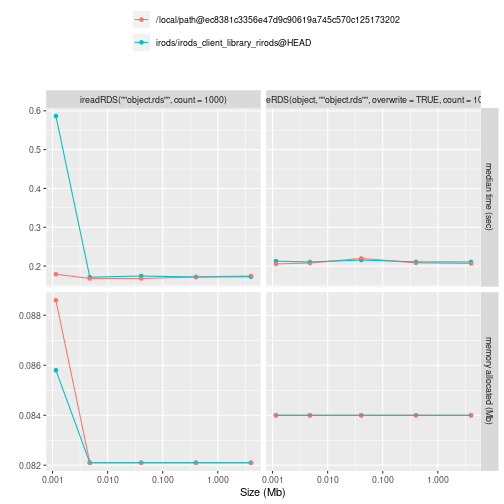
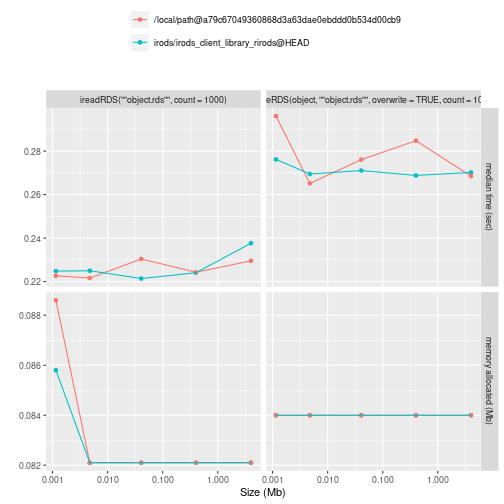
Benchmark results

diff --git a/inst/bench/README.md b/inst/bench/README.md
@@ -64,15 +64,15 @@ The results are based on the HEAD of the main branch on the iRODS organization r
    <td style="text-align:right;"> HEAD </td>
    <td style="text-align:right;"> 312 </td>
    <td style="text-align:right;"> iget(file_name, file_name, overwrite = TRUE, count = 1000) </td>
-   <td style="text-align:right;"> 171.25ms </td>
-   <td style="text-align:right;"> 1.53MB </td>
+   <td style="text-align:right;"> 213.63ms </td>
+   <td style="text-align:right;"> 2.72MB </td>
   </tr>
   <tr>
    <td style="text-align:right;"> irods/irods_client_library_rirods </td>
    <td style="text-align:right;"> HEAD </td>
    <td style="text-align:right;"> 312 </td>
    <td style="text-align:right;"> iput(file_name, file_name, overwrite = TRUE, count = 1000) </td>
-   <td style="text-align:right;"> 208.95ms </td>
+   <td style="text-align:right;"> 260.93ms </td>
    <td style="text-align:right;"> 324.98KB </td>
   </tr>
   <tr>
@@ -80,7 +80,7 @@ The results are based on the HEAD of the main branch on the iRODS organization r
    <td style="text-align:right;"> HEAD </td>
    <td style="text-align:right;"> 3913 </td>
    <td style="text-align:right;"> iget(file_name, file_name, overwrite = TRUE, count = 1000) </td>
-   <td style="text-align:right;"> 339.25ms </td>
+   <td style="text-align:right;"> 455.36ms </td>
    <td style="text-align:right;"> 467.76KB </td>
   </tr>
   <tr>
@@ -88,15 +88,15 @@ The results are based on the HEAD of the main branch on the iRODS organization r
    <td style="text-align:right;"> HEAD </td>
    <td style="text-align:right;"> 3913 </td>
    <td style="text-align:right;"> iput(file_name, file_name, overwrite = TRUE, count = 1000) </td>
-   <td style="text-align:right;"> 458.89ms </td>
-   <td style="text-align:right;"> 491.24KB </td>
+   <td style="text-align:right;"> 520.51ms </td>
+   <td style="text-align:right;"> 494.37KB </td>
   </tr>
   <tr>
    <td style="text-align:right;"> irods/irods_client_library_rirods </td>
    <td style="text-align:right;"> HEAD </td>
    <td style="text-align:right;"> 48914 </td>
    <td style="text-align:right;"> iget(file_name, file_name, overwrite = TRUE, count = 1000) </td>
-   <td style="text-align:right;"> 4.19s </td>
+   <td style="text-align:right;"> 5.38s </td>
    <td style="text-align:right;"> 5.58MB </td>
   </tr>
   <tr>
@@ -104,7 +104,7 @@ The results are based on the HEAD of the main branch on the iRODS organization r
    <td style="text-align:right;"> HEAD </td>
    <td style="text-align:right;"> 48914 </td>
    <td style="text-align:right;"> iput(file_name, file_name, overwrite = TRUE, count = 1000) </td>
-   <td style="text-align:right;"> 4.88s </td>
+   <td style="text-align:right;"> 6.43s </td>
    <td style="text-align:right;"> 5.58MB </td>
   </tr>
   <tr>
@@ -112,112 +112,112 @@ The results are based on the HEAD of the main branch on the iRODS organization r
    <td style="text-align:right;"> HEAD </td>
    <td style="text-align:right;"> 588915 </td>
    <td style="text-align:right;"> iget(file_name, file_name, overwrite = TRUE, count = 1000) </td>
-   <td style="text-align:right;"> 50.39s </td>
-   <td style="text-align:right;"> 67.08MB </td>
+   <td style="text-align:right;"> 1.1m </td>
+   <td style="text-align:right;"> 67.09MB </td>
   </tr>
   <tr>
    <td style="text-align:right;"> irods/irods_client_library_rirods </td>
    <td style="text-align:right;"> HEAD </td>
    <td style="text-align:right;"> 588915 </td>
    <td style="text-align:right;"> iput(file_name, file_name, overwrite = TRUE, count = 1000) </td>
-   <td style="text-align:right;"> 59.31s </td>
-   <td style="text-align:right;"> 67.16MB </td>
+   <td style="text-align:right;"> 1.27m </td>
+   <td style="text-align:right;"> 67.17MB </td>
   </tr>
   <tr>
    <td style="text-align:right;"> irods/irods_client_library_rirods </td>
    <td style="text-align:right;"> HEAD </td>
    <td style="text-align:right;"> 6888916 </td>
    <td style="text-align:right;"> iget(file_name, file_name, overwrite = TRUE, count = 1000) </td>
-   <td style="text-align:right;"> 9.97m </td>
-   <td style="text-align:right;"> 784.41MB </td>
+   <td style="text-align:right;"> 12.74m </td>
+   <td style="text-align:right;"> 784.51MB </td>
   </tr>
   <tr>
    <td style="text-align:right;"> irods/irods_client_library_rirods </td>
    <td style="text-align:right;"> HEAD </td>
    <td style="text-align:right;"> 6888916 </td>
    <td style="text-align:right;"> iput(file_name, file_name, overwrite = TRUE, count = 1000) </td>
-   <td style="text-align:right;"> 11.76m </td>
-   <td style="text-align:right;"> 785.64MB </td>
+   <td style="text-align:right;"> 15.39m </td>
+   <td style="text-align:right;"> 785.78MB </td>
   </tr>
   <tr>
    <td style="text-align:right;"> /local/path </td>
-   <td style="text-align:right;"> ec8381c3356e47d9c90619a745c570c125173202 </td>
+   <td style="text-align:right;"> a79c67049360868d3a63dae0ebddd0b534d00cb9 </td>
    <td style="text-align:right;"> 312 </td>
    <td style="text-align:right;"> iget(file_name, file_name, overwrite = TRUE, count = 1000) </td>
-   <td style="text-align:right;"> 170.83ms </td>
-   <td style="text-align:right;"> 1.23MB </td>
+   <td style="text-align:right;"> 220.31ms </td>
+   <td style="text-align:right;"> 2.43MB </td>
   </tr>
   <tr>
    <td style="text-align:right;"> /local/path </td>
-   <td style="text-align:right;"> ec8381c3356e47d9c90619a745c570c125173202 </td>
+   <td style="text-align:right;"> a79c67049360868d3a63dae0ebddd0b534d00cb9 </td>
    <td style="text-align:right;"> 312 </td>
    <td style="text-align:right;"> iput(file_name, file_name, overwrite = TRUE, count = 1000) </td>
-   <td style="text-align:right;"> 209.19ms </td>
-   <td style="text-align:right;"> 325.16KB </td>
+   <td style="text-align:right;"> 271.21ms </td>
+   <td style="text-align:right;"> 375.49KB </td>
   </tr>
   <tr>
    <td style="text-align:right;"> /local/path </td>
-   <td style="text-align:right;"> ec8381c3356e47d9c90619a745c570c125173202 </td>
+   <td style="text-align:right;"> a79c67049360868d3a63dae0ebddd0b534d00cb9 </td>
    <td style="text-align:right;"> 3913 </td>
    <td style="text-align:right;"> iget(file_name, file_name, overwrite = TRUE, count = 1000) </td>
-   <td style="text-align:right;"> 344.93ms </td>
-   <td style="text-align:right;"> 466.21KB </td>
+   <td style="text-align:right;"> 444.52ms </td>
+   <td style="text-align:right;"> 466.59KB </td>
   </tr>
   <tr>
    <td style="text-align:right;"> /local/path </td>
-   <td style="text-align:right;"> ec8381c3356e47d9c90619a745c570c125173202 </td>
+   <td style="text-align:right;"> a79c67049360868d3a63dae0ebddd0b534d00cb9 </td>
    <td style="text-align:right;"> 3913 </td>
    <td style="text-align:right;"> iput(file_name, file_name, overwrite = TRUE, count = 1000) </td>
-   <td style="text-align:right;"> 403.4ms </td>
-   <td style="text-align:right;"> 491.24KB </td>
+   <td style="text-align:right;"> 530.14ms </td>
+   <td style="text-align:right;"> 491.86KB </td>
   </tr>
   <tr>
    <td style="text-align:right;"> /local/path </td>
-   <td style="text-align:right;"> ec8381c3356e47d9c90619a745c570c125173202 </td>
+   <td style="text-align:right;"> a79c67049360868d3a63dae0ebddd0b534d00cb9 </td>
    <td style="text-align:right;"> 48914 </td>
    <td style="text-align:right;"> iget(file_name, file_name, overwrite = TRUE, count = 1000) </td>
-   <td style="text-align:right;"> 4.23s </td>
+   <td style="text-align:right;"> 5.46s </td>
    <td style="text-align:right;"> 5.58MB </td>
   </tr>
   <tr>
    <td style="text-align:right;"> /local/path </td>
-   <td style="text-align:right;"> ec8381c3356e47d9c90619a745c570c125173202 </td>
+   <td style="text-align:right;"> a79c67049360868d3a63dae0ebddd0b534d00cb9 </td>
    <td style="text-align:right;"> 48914 </td>
    <td style="text-align:right;"> iput(file_name, file_name, overwrite = TRUE, count = 1000) </td>
-   <td style="text-align:right;"> 4.95s </td>
+   <td style="text-align:right;"> 6.33s </td>
    <td style="text-align:right;"> 5.58MB </td>
   </tr>
   <tr>
    <td style="text-align:right;"> /local/path </td>
-   <td style="text-align:right;"> ec8381c3356e47d9c90619a745c570c125173202 </td>
+   <td style="text-align:right;"> a79c67049360868d3a63dae0ebddd0b534d00cb9 </td>
    <td style="text-align:right;"> 588915 </td>
    <td style="text-align:right;"> iget(file_name, file_name, overwrite = TRUE, count = 1000) </td>
-   <td style="text-align:right;"> 51.01s </td>
-   <td style="text-align:right;"> 67.08MB </td>
+   <td style="text-align:right;"> 1.1m </td>
+   <td style="text-align:right;"> 67.09MB </td>
   </tr>
   <tr>
    <td style="text-align:right;"> /local/path </td>
-   <td style="text-align:right;"> ec8381c3356e47d9c90619a745c570c125173202 </td>
+   <td style="text-align:right;"> a79c67049360868d3a63dae0ebddd0b534d00cb9 </td>
    <td style="text-align:right;"> 588915 </td>
    <td style="text-align:right;"> iput(file_name, file_name, overwrite = TRUE, count = 1000) </td>
-   <td style="text-align:right;"> 59.26s </td>
+   <td style="text-align:right;"> 1.3m </td>
    <td style="text-align:right;"> 67.17MB </td>
   </tr>
   <tr>
    <td style="text-align:right;"> /local/path </td>
-   <td style="text-align:right;"> ec8381c3356e47d9c90619a745c570c125173202 </td>
+   <td style="text-align:right;"> a79c67049360868d3a63dae0ebddd0b534d00cb9 </td>
    <td style="text-align:right;"> 6888916 </td>
    <td style="text-align:right;"> iget(file_name, file_name, overwrite = TRUE, count = 1000) </td>
-   <td style="text-align:right;"> 9.94m </td>
-   <td style="text-align:right;"> 784.41MB </td>
+   <td style="text-align:right;"> 13.05m </td>
+   <td style="text-align:right;"> 784.51MB </td>
   </tr>
   <tr>
    <td style="text-align:right;"> /local/path </td>
-   <td style="text-align:right;"> ec8381c3356e47d9c90619a745c570c125173202 </td>
+   <td style="text-align:right;"> a79c67049360868d3a63dae0ebddd0b534d00cb9 </td>
    <td style="text-align:right;"> 6888916 </td>
    <td style="text-align:right;"> iput(file_name, file_name, overwrite = TRUE, count = 1000) </td>
-   <td style="text-align:right;"> 11.75m </td>
-   <td style="text-align:right;"> 785.65MB </td>
+   <td style="text-align:right;"> 15.25m </td>
+   <td style="text-align:right;"> 785.78MB </td>
   </tr>
 </tbody>
 </table>
@@ -250,7 +250,7 @@ The results are based on the HEAD of the main branch on the iRODS organization r
    <td style="text-align:right;"> HEAD </td>
    <td style="text-align:right;"> 1152 </td>
    <td style="text-align:right;"> isaveRDS(object, &quot;&quot;object.rds&quot;&quot;, overwrite = TRUE, count = 1000) </td>
-   <td style="text-align:right;"> 212ms </td>
+   <td style="text-align:right;"> 276ms </td>
    <td style="text-align:right;"> 84KB </td>
   </tr>
   <tr>
@@ -258,7 +258,7 @@ The results are based on the HEAD of the main branch on the iRODS organization r
    <td style="text-align:right;"> HEAD </td>
    <td style="text-align:right;"> 1152 </td>
    <td style="text-align:right;"> ireadRDS(&quot;&quot;object.rds&quot;&quot;, count = 1000) </td>
-   <td style="text-align:right;"> 586ms </td>
+   <td style="text-align:right;"> 228ms </td>
    <td style="text-align:right;"> 85.8KB </td>
   </tr>
   <tr>
@@ -266,7 +266,7 @@ The results are based on the HEAD of the main branch on the iRODS organization r
    <td style="text-align:right;"> HEAD </td>
    <td style="text-align:right;"> 4752 </td>
    <td style="text-align:right;"> isaveRDS(object, &quot;&quot;object.rds&quot;&quot;, overwrite = TRUE, count = 1000) </td>
-   <td style="text-align:right;"> 209ms </td>
+   <td style="text-align:right;"> 269ms </td>
    <td style="text-align:right;"> 84KB </td>
   </tr>
   <tr>
@@ -274,7 +274,7 @@ The results are based on the HEAD of the main branch on the iRODS organization r
    <td style="text-align:right;"> HEAD </td>
    <td style="text-align:right;"> 4752 </td>
    <td style="text-align:right;"> ireadRDS(&quot;&quot;object.rds&quot;&quot;, count = 1000) </td>
-   <td style="text-align:right;"> 172ms </td>
+   <td style="text-align:right;"> 224ms </td>
    <td style="text-align:right;"> 82.1KB </td>
   </tr>
   <tr>
@@ -282,7 +282,7 @@ The results are based on the HEAD of the main branch on the iRODS organization r
    <td style="text-align:right;"> HEAD </td>
    <td style="text-align:right;"> 40752 </td>
    <td style="text-align:right;"> isaveRDS(object, &quot;&quot;object.rds&quot;&quot;, overwrite = TRUE, count = 1000) </td>
-   <td style="text-align:right;"> 209ms </td>
+   <td style="text-align:right;"> 271ms </td>
    <td style="text-align:right;"> 84KB </td>
   </tr>
   <tr>
@@ -290,7 +290,7 @@ The results are based on the HEAD of the main branch on the iRODS organization r
    <td style="text-align:right;"> HEAD </td>
    <td style="text-align:right;"> 40752 </td>
    <td style="text-align:right;"> ireadRDS(&quot;&quot;object.rds&quot;&quot;, count = 1000) </td>
-   <td style="text-align:right;"> 172ms </td>
+   <td style="text-align:right;"> 224ms </td>
    <td style="text-align:right;"> 82.1KB </td>
   </tr>
   <tr>
@@ -298,7 +298,7 @@ The results are based on the HEAD of the main branch on the iRODS organization r
    <td style="text-align:right;"> HEAD </td>
    <td style="text-align:right;"> 400752 </td>
    <td style="text-align:right;"> isaveRDS(object, &quot;&quot;object.rds&quot;&quot;, overwrite = TRUE, count = 1000) </td>
-   <td style="text-align:right;"> 210ms </td>
+   <td style="text-align:right;"> 269ms </td>
    <td style="text-align:right;"> 84KB </td>
   </tr>
   <tr>
@@ -306,7 +306,7 @@ The results are based on the HEAD of the main branch on the iRODS organization r
    <td style="text-align:right;"> HEAD </td>
    <td style="text-align:right;"> 400752 </td>
    <td style="text-align:right;"> ireadRDS(&quot;&quot;object.rds&quot;&quot;, count = 1000) </td>
-   <td style="text-align:right;"> 172ms </td>
+   <td style="text-align:right;"> 227ms </td>
    <td style="text-align:right;"> 82.1KB </td>
   </tr>
   <tr>
@@ -314,7 +314,7 @@ The results are based on the HEAD of the main branch on the iRODS organization r
    <td style="text-align:right;"> HEAD </td>
    <td style="text-align:right;"> 4000752 </td>
    <td style="text-align:right;"> isaveRDS(object, &quot;&quot;object.rds&quot;&quot;, overwrite = TRUE, count = 1000) </td>
-   <td style="text-align:right;"> 207ms </td>
+   <td style="text-align:right;"> 270ms </td>
    <td style="text-align:right;"> 84KB </td>
   </tr>
   <tr>
@@ -322,87 +322,87 @@ The results are based on the HEAD of the main branch on the iRODS organization r
    <td style="text-align:right;"> HEAD </td>
    <td style="text-align:right;"> 4000752 </td>
    <td style="text-align:right;"> ireadRDS(&quot;&quot;object.rds&quot;&quot;, count = 1000) </td>
-   <td style="text-align:right;"> 171ms </td>
+   <td style="text-align:right;"> 234ms </td>
    <td style="text-align:right;"> 82.1KB </td>
   </tr>
   <tr>
    <td style="text-align:right;"> /local/path </td>
-   <td style="text-align:right;"> ec8381c3356e47d9c90619a745c570c125173202 </td>
+   <td style="text-align:right;"> a79c67049360868d3a63dae0ebddd0b534d00cb9 </td>
    <td style="text-align:right;"> 1152 </td>
    <td style="text-align:right;"> isaveRDS(object, &quot;&quot;object.rds&quot;&quot;, overwrite = TRUE, count = 1000) </td>
-   <td style="text-align:right;"> 205ms </td>
+   <td style="text-align:right;"> 296ms </td>
    <td style="text-align:right;"> 84KB </td>
   </tr>
   <tr>
    <td style="text-align:right;"> /local/path </td>
-   <td style="text-align:right;"> ec8381c3356e47d9c90619a745c570c125173202 </td>
+   <td style="text-align:right;"> a79c67049360868d3a63dae0ebddd0b534d00cb9 </td>
    <td style="text-align:right;"> 1152 </td>
    <td style="text-align:right;"> ireadRDS(&quot;&quot;object.rds&quot;&quot;, count = 1000) </td>
-   <td style="text-align:right;"> 183ms </td>
+   <td style="text-align:right;"> 220ms </td>
    <td style="text-align:right;"> 88.6KB </td>
   </tr>
   <tr>
    <td style="text-align:right;"> /local/path </td>
-   <td style="text-align:right;"> ec8381c3356e47d9c90619a745c570c125173202 </td>
+   <td style="text-align:right;"> a79c67049360868d3a63dae0ebddd0b534d00cb9 </td>
    <td style="text-align:right;"> 4752 </td>
    <td style="text-align:right;"> isaveRDS(object, &quot;&quot;object.rds&quot;&quot;, overwrite = TRUE, count = 1000) </td>
-   <td style="text-align:right;"> 205ms </td>
+   <td style="text-align:right;"> 265ms </td>
    <td style="text-align:right;"> 84KB </td>
   </tr>
   <tr>
    <td style="text-align:right;"> /local/path </td>
-   <td style="text-align:right;"> ec8381c3356e47d9c90619a745c570c125173202 </td>
+   <td style="text-align:right;"> a79c67049360868d3a63dae0ebddd0b534d00cb9 </td>
    <td style="text-align:right;"> 4752 </td>
    <td style="text-align:right;"> ireadRDS(&quot;&quot;object.rds&quot;&quot;, count = 1000) </td>
-   <td style="text-align:right;"> 168ms </td>
+   <td style="text-align:right;"> 218ms </td>
    <td style="text-align:right;"> 82.1KB </td>
   </tr>
   <tr>
    <td style="text-align:right;"> /local/path </td>
-   <td style="text-align:right;"> ec8381c3356e47d9c90619a745c570c125173202 </td>
+   <td style="text-align:right;"> a79c67049360868d3a63dae0ebddd0b534d00cb9 </td>
    <td style="text-align:right;"> 40752 </td>
    <td style="text-align:right;"> isaveRDS(object, &quot;&quot;object.rds&quot;&quot;, overwrite = TRUE, count = 1000) </td>
-   <td style="text-align:right;"> 210ms </td>
+   <td style="text-align:right;"> 276ms </td>
    <td style="text-align:right;"> 84KB </td>
   </tr>
   <tr>
    <td style="text-align:right;"> /local/path </td>
-   <td style="text-align:right;"> ec8381c3356e47d9c90619a745c570c125173202 </td>
+   <td style="text-align:right;"> a79c67049360868d3a63dae0ebddd0b534d00cb9 </td>
    <td style="text-align:right;"> 40752 </td>
    <td style="text-align:right;"> ireadRDS(&quot;&quot;object.rds&quot;&quot;, count = 1000) </td>
-   <td style="text-align:right;"> 168ms </td>
+   <td style="text-align:right;"> 232ms </td>
    <td style="text-align:right;"> 82.1KB </td>
   </tr>
   <tr>
    <td style="text-align:right;"> /local/path </td>
-   <td style="text-align:right;"> ec8381c3356e47d9c90619a745c570c125173202 </td>
+   <td style="text-align:right;"> a79c67049360868d3a63dae0ebddd0b534d00cb9 </td>
    <td style="text-align:right;"> 400752 </td>
    <td style="text-align:right;"> isaveRDS(object, &quot;&quot;object.rds&quot;&quot;, overwrite = TRUE, count = 1000) </td>
-   <td style="text-align:right;"> 207ms </td>
+   <td style="text-align:right;"> 285ms </td>
    <td style="text-align:right;"> 84KB </td>
   </tr>
   <tr>
    <td style="text-align:right;"> /local/path </td>
-   <td style="text-align:right;"> ec8381c3356e47d9c90619a745c570c125173202 </td>
+   <td style="text-align:right;"> a79c67049360868d3a63dae0ebddd0b534d00cb9 </td>
    <td style="text-align:right;"> 400752 </td>
    <td style="text-align:right;"> ireadRDS(&quot;&quot;object.rds&quot;&quot;, count = 1000) </td>
-   <td style="text-align:right;"> 169ms </td>
+   <td style="text-align:right;"> 223ms </td>
    <td style="text-align:right;"> 82.1KB </td>
   </tr>
   <tr>
    <td style="text-align:right;"> /local/path </td>
-   <td style="text-align:right;"> ec8381c3356e47d9c90619a745c570c125173202 </td>
+   <td style="text-align:right;"> a79c67049360868d3a63dae0ebddd0b534d00cb9 </td>
    <td style="text-align:right;"> 4000752 </td>
    <td style="text-align:right;"> isaveRDS(object, &quot;&quot;object.rds&quot;&quot;, overwrite = TRUE, count = 1000) </td>
-   <td style="text-align:right;"> 207ms </td>
+   <td style="text-align:right;"> 268ms </td>
    <td style="text-align:right;"> 84KB </td>
   </tr>
   <tr>
    <td style="text-align:right;"> /local/path </td>
-   <td style="text-align:right;"> ec8381c3356e47d9c90619a745c570c125173202 </td>
+   <td style="text-align:right;"> a79c67049360868d3a63dae0ebddd0b534d00cb9 </td>
    <td style="text-align:right;"> 4000752 </td>
    <td style="text-align:right;"> ireadRDS(&quot;&quot;object.rds&quot;&quot;, count = 1000) </td>
-   <td style="text-align:right;"> 177ms </td>
+   <td style="text-align:right;"> 229ms </td>
    <td style="text-align:right;"> 82.1KB </td>
   </tr>
 </tbody>
